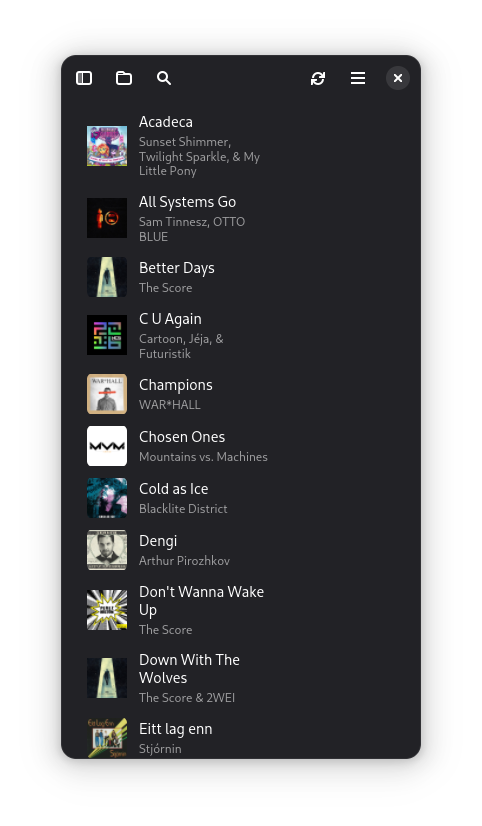
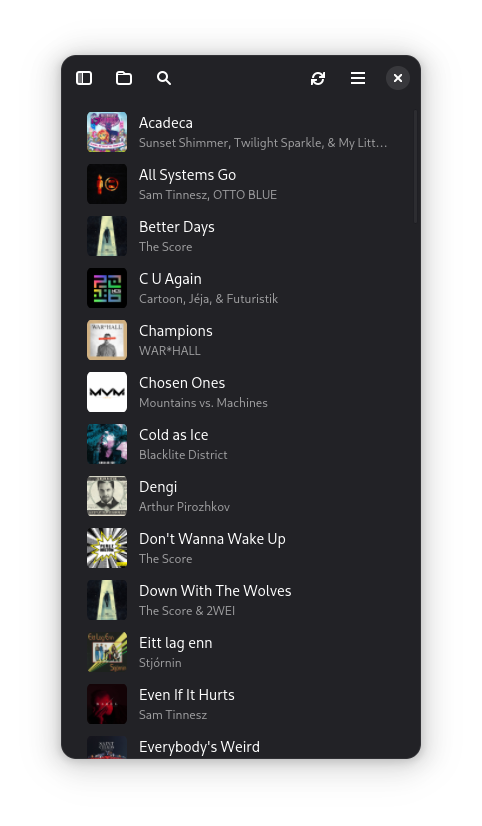
Bump version to 2.4.2
- i18n: updated translations
- fix: fixed screenshots (fix-available: #22)

Changed region(s): [[0.1556, 0.1211, 0.778, 0.9383], [0.4668, 0.4843, 0.5602, 0.5145]]

diff --git a/chronograph/ui/SongCard.py b/chronograph/ui/SongCard.py
@@ -158,6 +158,7 @@ class SongCard(Gtk.Box):
             if self._file.album is not None and self._file.album != ""
             else self.metadata_editor_album_row.set_text("")
         )
+        self.metadata_editor.grab_focus()
         self.metadata_editor.present(shared.win)
 
     def metadata_editor_save(self, *_args) -> None:
